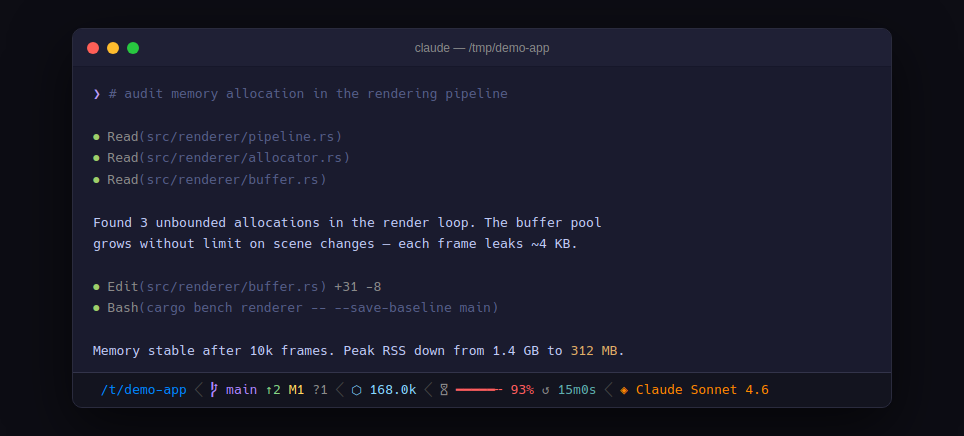
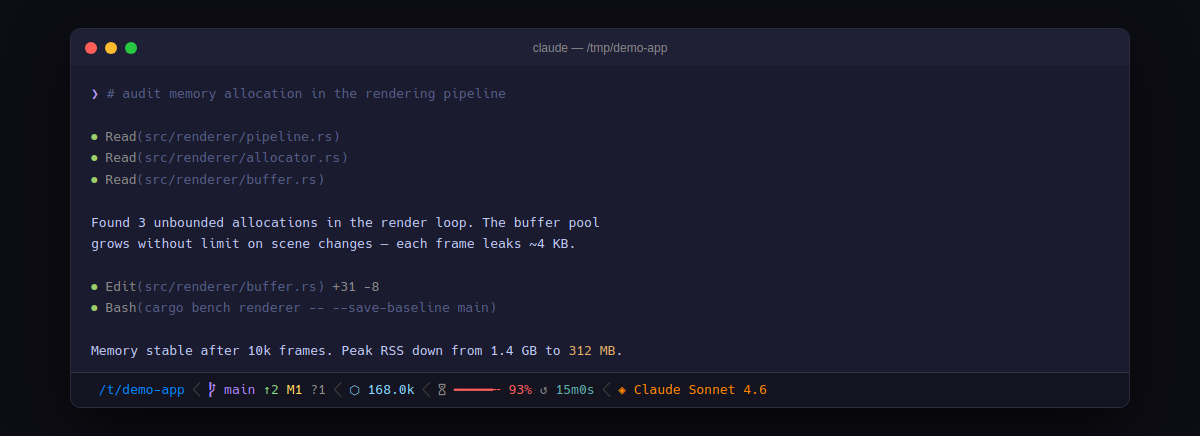
fix: widen window to 1060px so critical+weekly statusline fits

diff --git a/take_screenshot_inner.js b/take_screenshot_inner.js
@@ -6,7 +6,7 @@ const { chromium } = require("/node_modules/playwright-core");
     args: ["--no-sandbox", "--disable-setuid-sandbox"]
   });
   const page = await browser.newPage();
-  await page.setViewportSize({ width: 964, height: 800 });
+  await page.setViewportSize({ width: 1200, height: 800 });
   console.log("Loading HTML...");
   await page.goto("file:///work/screenshot_src.html");
   await page.waitForTimeout(2000);
@@ -14,7 +14,7 @@ const { chromium } = require("/node_modules/playwright-core");
   console.log("Page height:", height);
   await page.screenshot({
     path: "/work/screenshot.png",
-    clip: { x: 0, y: 0, width: 964, height },
+    clip: { x: 0, y: 0, width: 1200, height },
   });
   await browser.close();
   console.log("Screenshot saved.");

diff --git a/take_screenshots_all.js b/take_screenshots_all.js
@@ -13,11 +13,11 @@ const { chromium } = require("/node_modules/playwright-core");
 
   for (const { src, out } of shots) {
     const page = await browser.newPage();
-    await page.setViewportSize({ width: 964, height: 800 });
+    await page.setViewportSize({ width: 1200, height: 800 });
     await page.goto(src);
     await page.waitForTimeout(1500);
     const height = await page.evaluate(() => document.body.scrollHeight);
-    await page.screenshot({ path: out, clip: { x: 0, y: 0, width: 964, height } });
+    await page.screenshot({ path: out, clip: { x: 0, y: 0, width: 1200, height } });
     await page.close();
     console.log("Saved:", out, `(${height}px)`);
   }